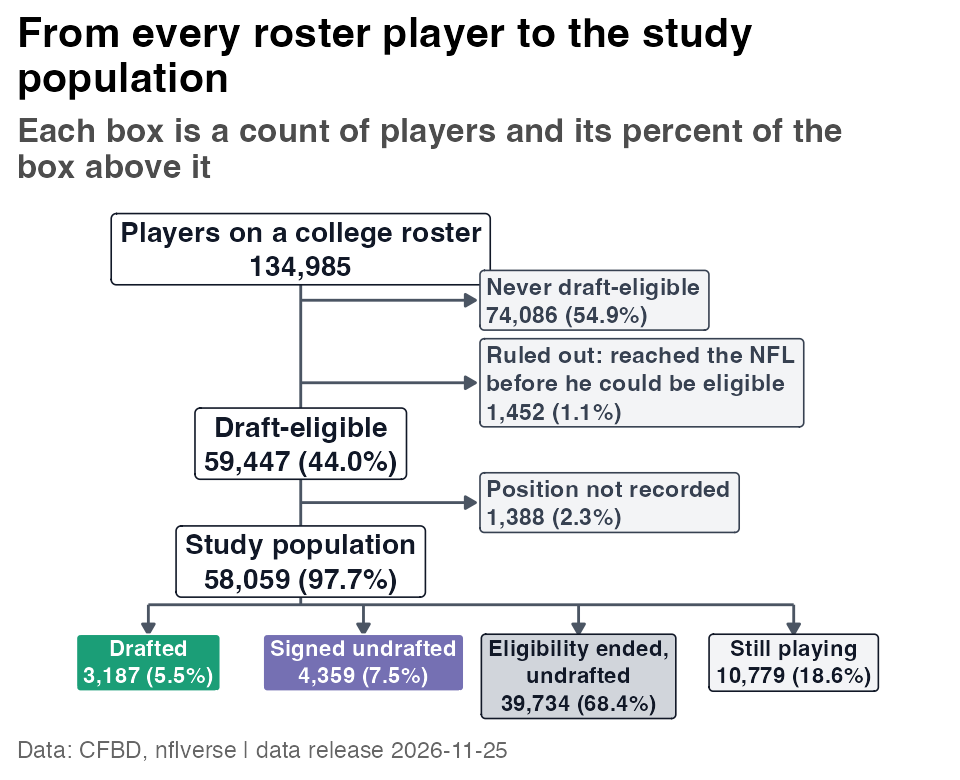
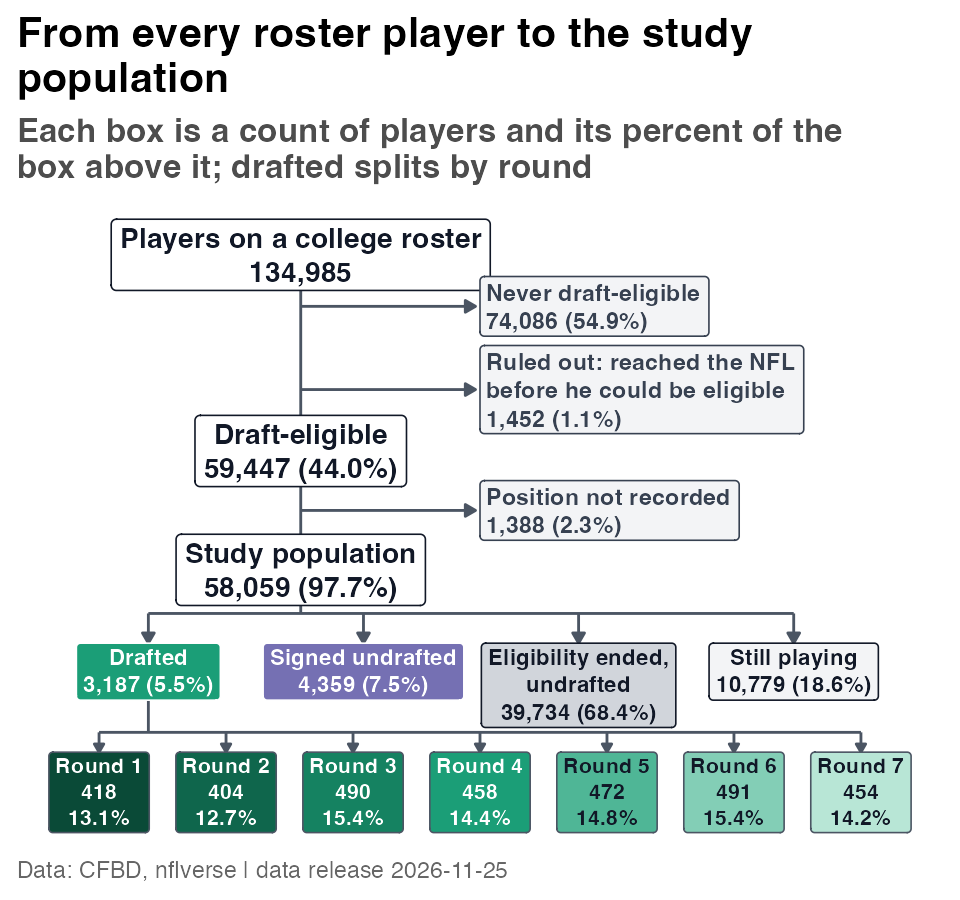
feat(cards): split the study-population flow chart's drafted leaf by round (F25) (#164)
The drafted box now ends in seven round boxes with each round's count and
share of drafted players, coloured with leaf_palette()'s round greens.

Changed region(s): [[0.0, 0.0, 0.9688, 0.9846], [0.8125, 0.5231, 0.8438, 0.5538]]

diff --git a/NEWS.md b/NEWS.md
@@ -1,5 +1,11 @@
 # cfb2nfl 0.0.0.9000 (development version)
 
+- Investigations (feature F25): **the study-population flow chart splits
+  drafted by round**. "How many college players ever get a shot at the
+  draft?" now ends the drafted branch in seven round boxes, each with its
+  count and share of the drafted players, in the same round greens as the
+  roster-paths card.
+
 - Investigations (feature F25): **new card, "Where does every college roster
   player end up, season by season?"**. Stacked percent bars by final college
   season (plus all seasons) split every roster player into the leaves of the
